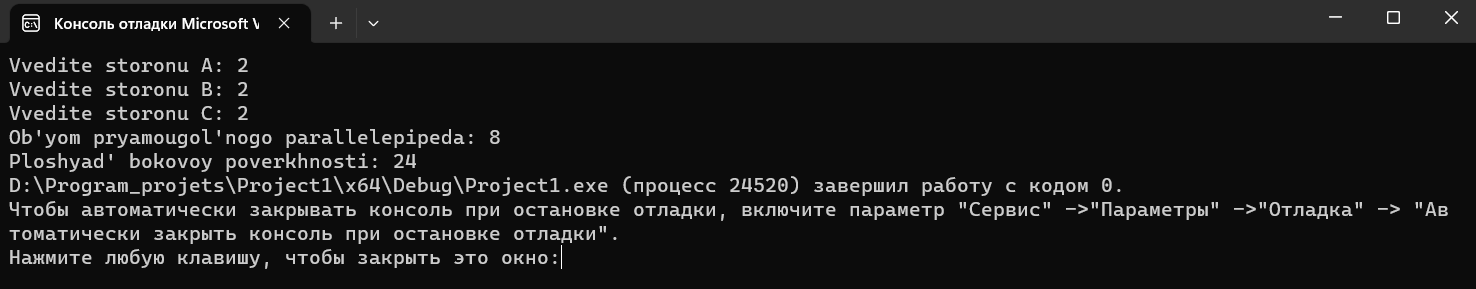
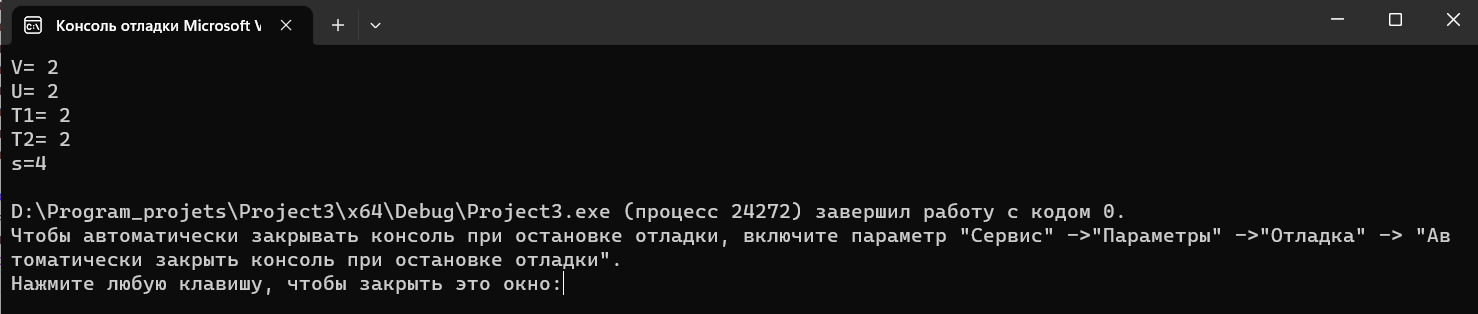
Add files via upload

diff --git a/main.cpp b/main.cpp
@@ -1,16 +1,18 @@
 #include <iostream>
 using namespace std;
 int main() {
-	double a, b, c, v, s;
-	cout << "Vvedite storonu A: ";
-	cin >> a;
-	cout << "Vvedite storonu B: ";
-	cin >> b;
-	cout << "Vvedite storonu C: ";
-	cin >> c;
-	v = a * b * c;
-	s = 2 * (a * b + b * c + a * c);
-	cout << "Ob'yom pryamougol'nogo parallelepipeda: " << v << endl;
-	cout << "Ploshyad' bokovoy poverkhnosti: " << s;
+	float V, U, T1, T2;
+	cout << "V= ";
+	cin >> V;
+	cout << "U= ";
+	cin >> U;
+	cout << "T1= ";
+	cin >> T1;
+	cout << "T2= ";
+	cin >> T2; 
+
+	float S;
+	S = V * T1 + (V - U) * T2;
+	cout << "s=" << S << endl;
 	return 0;
 }
